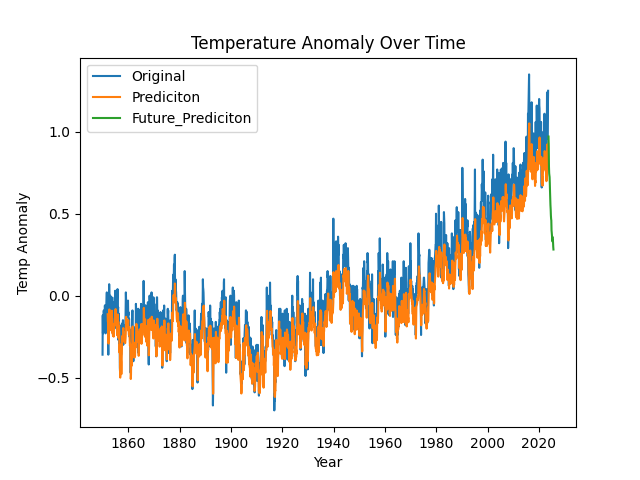
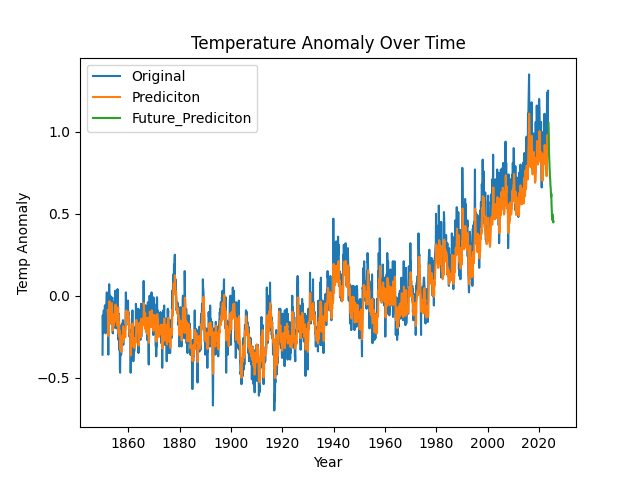
Add neural network model for temperature anomaly prediction

Changed region(s): [[0.1562, 0.25, 0.875, 0.8125]]

diff --git a/ITP-359/homework/homework2/temp.py b/ITP-359/homework/homework2/temp.py
@@ -4,11 +4,12 @@ import tensorflow as tf
 import numpy as np
 import matplotlib.pyplot as plt
 from sklearn.preprocessing import MinMaxScaler
+from sklearn.metrics import mean_squared_error
 from hmmlearn.hmm import GaussianHMM
 import seaborn as sns
 
 
-#read in file 
+#read in file to DF (Step 2)
 df = pd.read_csv('homework/homework2/Temperature data.csv', delimiter=',')
 """      
 Year  Anomaly
@@ -17,12 +18,12 @@ Year  Anomaly
 2  1850-03    -0.23
 3  1850-04    -0.19
 """
-#to DateTime
+#to DateTime (Step 3)
 df['Time'] = pd.to_datetime(df['Year'], format='%Y-%m')
 
 df = df.drop('Year', axis=1)
 
-#Plot the data
+#Plot the data (Anonmaly vs Year Step 4) 
 fig, ax = plt.subplots()
 ax.plot(df['Time'], df['Anomaly'])
 ax.set_xlabel('Year')
@@ -30,14 +31,16 @@ ax.set_ylabel('Temp Anomaly')
 ax.set_title('Temperature Anomaly Over Time')
 fig.savefig('temp_anomaly.png')
 
-#Numpy array of anon
+#Numpy array of anon (Step 5)
 np_Anom = np.array(df['Anomaly']).reshape(-1,1)
 
 
 def nn(np_Anom):
+    #scale the data (Step 6)
     scaler = MinMaxScaler()
     np_Anom = scaler.fit_transform(np_Anom)
-    window_list = []
+    
+    #create the time window for the data (Step 7)
     window_size = 24
     max_length = np_Anom.shape[0]
     y = np_Anom[window_size:max_length+1].squeeze()
@@ -49,6 +52,8 @@ def nn(np_Anom):
     X = np.array(X).squeeze()
     print(X)
     print(y)
+    
+    #create the neural network model (Step 8)
     nn_model = tf.keras.Sequential()
     nn_model.add(tf.keras.Input(shape=(window_size,)))
     nn_model.add(tf.keras.layers.Dense(200, activation='relu'))
@@ -57,17 +62,29 @@ def nn(np_Anom):
     nn_model.add(tf.keras.layers.Dense(2500, activation='relu'))
     nn_model.add(tf.keras.layers.Dense(500, activation='relu'))
     nn_model.add(tf.keras.layers.Dense(1, activation='linear'))
+    #mse loss function (step 9)
     nn_model.compile(
         optimizer='adam',
         loss="mse",
         metrics=['accuracy']
     )
+    #train the model (Step 10)
     nn_model.fit(X, y, batch_size=40, epochs=30)
+    #predict the data and inverse scale temp (Step 11)
     prediction = nn_model.predict(X)
     scale_pred = scaler.inverse_transform(prediction)
+    #evaluate the model (Step 12)
     loss, acc = nn_model.evaluate(X, y)
-    print(loss)
-    print(acc)
+    mse = mean_squared_error(y, scale_pred)
+    print("MSE: ", mse)
+    print("loss: ", loss)
+    print("Acc: ", acc)
+    """
+    MSE:  0.1503026114530207
+    loss:  0.0023833110462874174
+    Acc:  0.0009708738070912659
+    """
+    #plot prediction (Step 13)
     fig, ax = plt.subplots()
     ax.plot(df['Time'], df['Anomaly'], label='Original')
     ax.plot(df['Time'].iloc[window_size::], scale_pred, label='Prediciton')
@@ -77,7 +94,7 @@ def nn(np_Anom):
     ax.legend()
     fig.savefig('nn model')
 
-    #predict the next 24 months in the future
+    #predict the next 24 months in the future and plot (Step 14) 
     pred_months = 24
     future_pred_list = y[-window_size:].tolist()
     for i in range(pred_months):
@@ -105,10 +122,14 @@ def nn(np_Anom):
 
 
 def hmm(X, time):
+    #train the hmm (Step 15)
     model = GaussianHMM( n_iter=100, n_components=3)
     model.fit(X)
+    #predict the states (Step 16)
     pred = model.predict(X)
     state = np.array(pred)
+    
+    #plot the states (Step 17)
     d = {"state": state, "Anom": X.flatten(), 'time': time}
     hmm_df = pd.DataFrame(data=d)  
     print(hmm_df)
@@ -131,6 +152,7 @@ def hmm(X, time):
     fig.tight_layout()
     fig.savefig('hmm')
     
+    #plot the transition matrix (Step 18)
     plt.figure(figsize=(10, 8))
     sns.heatmap(model.transmat_, annot=True, cmap='coolwarm')
     plt.title('Heatmap of Transition Matrix')
@@ -139,7 +161,7 @@ def hmm(X, time):
     plt.savefig('hmm heatmap')
     
 
-    
+    #bonus, predict the next 24 months in the future and plot (Step 19)
     last_hidden_state = hmm_df['state'].iloc[-1]
 
     fut_pred_list = [last_hidden_state]
@@ -183,4 +205,5 @@ def hmm(X, time):
 
 
 if __name__ == "__main__":
-    hmm(np_Anom, np.array(df['Time']))
+    #hmm(np_Anom, np.array(df['Time']))
+    nn(np_Anom)
